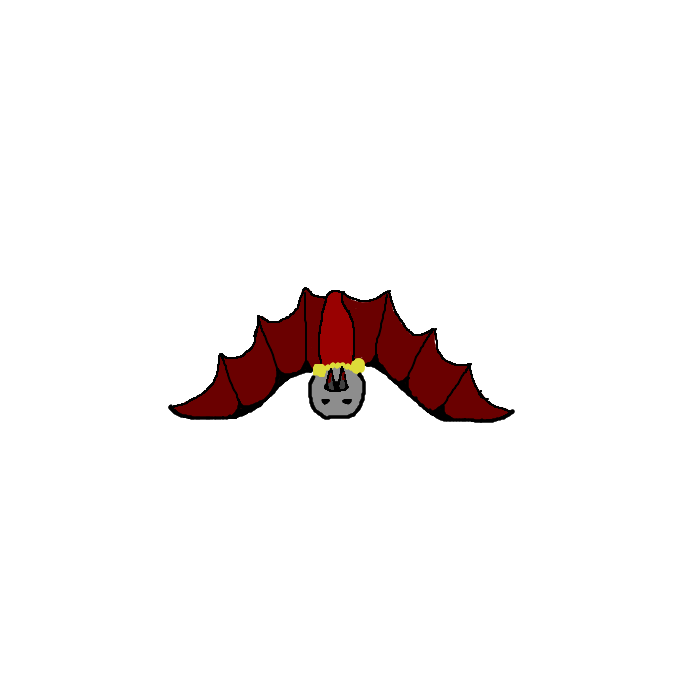
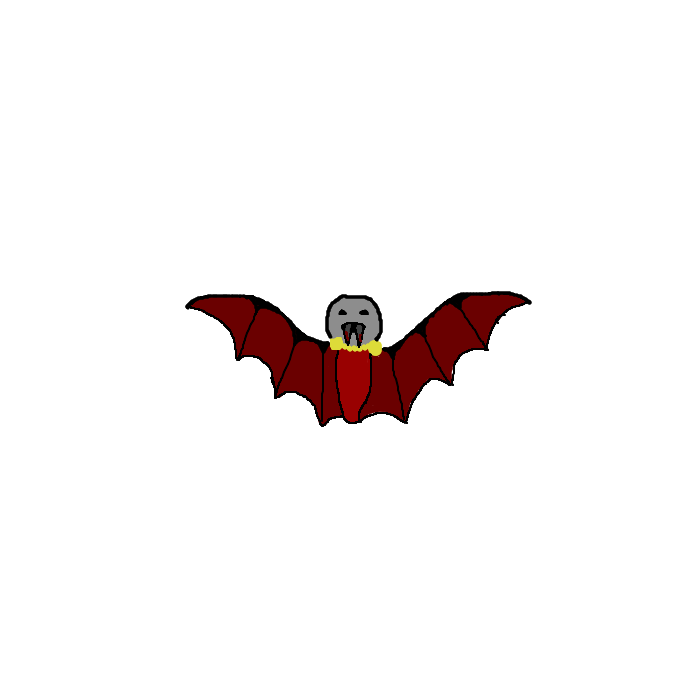
bat

Changed region(s): [[0.24, 0.39, 0.75, 0.63]]

diff --git a/lib/monsters/vampire.py b/lib/monsters/vampire.py
@@ -9,10 +9,20 @@ from . import Frog
 from . import set_hitbox_monster
 
 
+class Target(object):
+    def __init__(self, env, dimensions):
+        self.x = randint(0, env.width)
+        self.y = randint(0, env.height)
+        self.dimensions = dimensions
+        self.half = dimensions // 2
+        self.hitbox = set_hitbox_monster(env, self)
+
+
 class Vampire(DefaultMonster):
     lives = 60
     name = "vampire"
     id_nb = 21
+    _resize = 0.9
 
     @classmethod
     def build_class(cls):
@@ -20,31 +30,97 @@ class Vampire(DefaultMonster):
         cls.img_injured = cls.tools.set_imgs(cls.env.img_folder + 'monsters/', cls.name + '_injured', cls.dimensions)
         cls.img_dead = cls.tools.set_imgs(cls.env.img_folder + 'monsters/', cls.name + '_dead', cls.dimensions)
         cls.img_possessed = cls.tools.set_imgs(cls.env.img_folder + 'monsters/', cls.name + '_possessed', cls.dimensions)
-        cls.img_bat = cls.tools.set_imgs(cls.env.img_folder + 'monsters/', 'bat', cls.dimensions)
-        cls.img_bat_injured = cls.tools.set_imgs(cls.env.img_folder + 'monsters/', 'bat' + '_injured', cls.dimensions)
+        cls.img_bat = cls.tools.set_imgs(cls.env.img_folder + 'monsters/', 'bat', int(cls.dimensions * cls._resize))
+        cls.img_bat_injured = cls.tools.set_imgs(cls.env.img_folder + 'monsters/', 'bat' + '_injured', int(cls.dimensions * cls._resize))
         return cls
+
+
+    def _fly(self):
+        self.target = Target(self.env, self.dimensions)
+        self.hitbox = self.bat_hitbox
+
+    def _land(self):
+        self.ultimatum = 100
+        self.vampire_hitbox.update_coords(self)
+        self.hitbox = self.vampire_hitbox
 
     def __init__(self, env, x, y):
         self._father_init(x, y)
-        self.hitbox = set_hitbox_monster(env, self)
 
-        self.rapidity = randint(5, 13)
-        self.rapidity = 10 if self.rapidity > 10 else self.rapidity
+        self.bat_hitbox = set_hitbox_monster(env, self, self._resize * 0.24)
+        self.vampire_hitbox = set_hitbox_monster(env, self)
+
+        self.hitbox = self.vampire_hitbox
+        self.rapidity = randint(9, 17)
+        self.rapidity = 14 if self.rapidity > 14 else self.rapidity
+
+        self.ultimatum = 0
+        self._fly()
+
+    def _get_direction_to_target(self):
+        x, y, _ = self.tools.process_distance(self.target, self)
+        return self._determine_direction(x, y)
+
+    def _action(self):
+        if not self.stoned:
+            if self.ultimatum:
+                direction, _ = self._sniff_fresh_flesh()
+                if direction is not None:
+                    self.direction = direction
+            else:
+                direction = self._get_direction_to_target()
+                self.direction = direction
+                self.tools.move(self, direction, self.rapidity + self.env.furious)
+                self.hitbox.update_coords(self)
+                if self.affected(self.target):
+                    self._land()
+        self._target_hitted()
+
+    def move(self):
+        self.tick = self.env.mod.tools.Tick()
+        while self.lives:
+            self._action()
+            if self._quit():
+                return
+
+        self._land()
+        while self.degeneration:
+            if self.env.walking_dead:
+                super()._action()
+            if self._quit():
+                return
 
     def display(self, env):
         fitting = 0.23 * self.dimensions if self.direction % 2 else 0
+        if not self.ultimatum:
+            fitting = fitting - (self.dimensions - self._resize * self.dimensions) // 2
         if not self.lives:
             if self.env.walking_dead:
                 img = self.img_possessed[self.direction]
             else:
                 img = self.img_dead[self.direction]
-        elif self.injured:
-            img = self.img_injured[self.direction]
+        elif self.ultimatum:
+            if self.injured:
+                img = self.img_injured[self.direction]
+            else:
+                img = self.img[self.direction]
         else:
-            img = self.img[self.direction]
+            if self.injured:
+                img = self.img_bat_injured[self.direction]
+            else:
+                img = self.img_bat[self.direction]
         self.tools.display(self.env, img, self.x, self.y, fitting)
         if self.lives and self.invulnerable:
             self.tools.display(self.env, self.img_invulnerable[self.direction], self.x, self.y, fitting)
         elif self.lives and self.inflamed:
             self.tools.display(self.env, self.img_inflamed[self.direction], self.x, self.y, fitting)
         self._debug()
+        if self.lives and not self.ultimatum:
+            self.tools.display(self.env, self.target.hitbox.img, self.target.hitbox.x, self.target.hitbox.y)
+
+    def update(self):
+        super().update()
+        if self.lives and self.ultimatum:
+            self.ultimatum -= 1
+            if not self.ultimatum:
+                self._fly()

diff --git a/lib/monsters/harpy.py b/lib/monsters/harpy.py
@@ -39,6 +39,7 @@ class Harpy(DefaultMonster):
         self.hitbox = self.list_hitbox[self.shadow]
         self.dimensions = self.list_dimensions[self.shadow]
         self.potion_effect = False
+        self.inflamed = 0
 
     def _fly(self):
         if not self.lives:
@@ -48,7 +49,6 @@ class Harpy(DefaultMonster):
         self.rapidity = self.rapidity_onflight
         self.ultimatum = self.ultimatum_onflight
         self.gradient = self.gradient_max
-        self.inflamed = 0
 
     def _on_ground(self):
         if not self.lives:

diff --git a/lib/monsters/default.py b/lib/monsters/default.py
@@ -14,6 +14,7 @@ from . import set_hitbox_monster
 #flies can lay
 #move devourer as special
 #vampire pig ? wave 11 ? dont follow the player...can transform in bat and throw things
+#fear for vampire
 
 #maggots?
 #1200 (2400) madness -- spider -- octopus -- rat king -- dog (dammage zone) -- millipede -- virus -- display something on target
